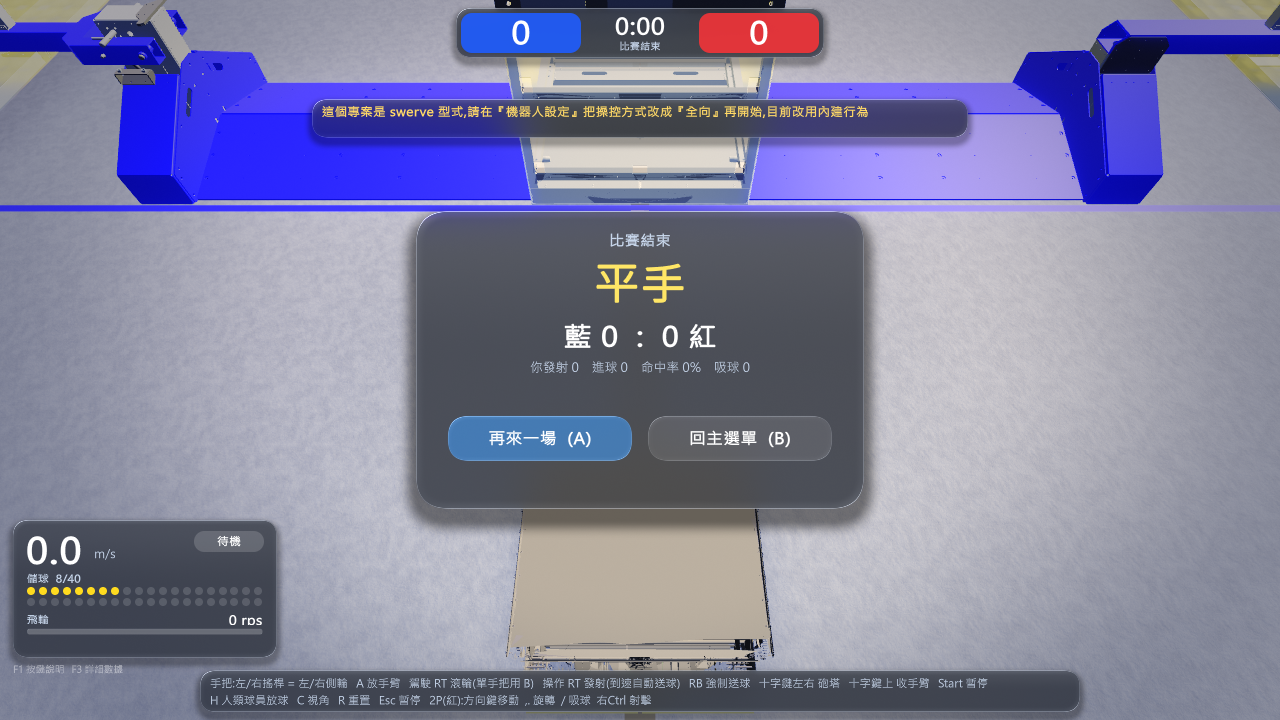
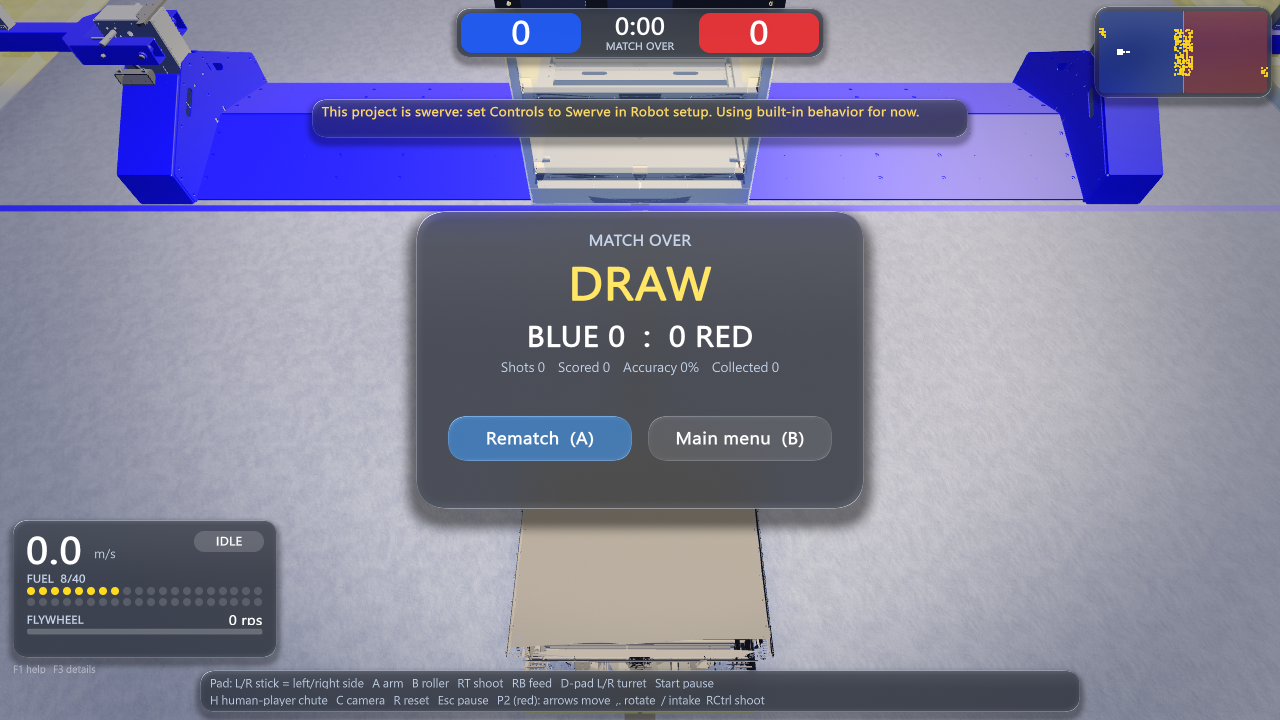
v0.5.38 minimap

diff --git a/Assets/Scripts/Sim/SimHud.cs b/Assets/Scripts/Sim/SimHud.cs
@@ -56,6 +56,7 @@ namespace FrcSim
             fps = Mathf.Lerp(fps, 1f / Mathf.Max(Time.unscaledDeltaTime, 1e-4f), 0.05f);
             if (Input.GetKeyDown(KeyCode.F3)) showDebug = !showDebug;
             if (Input.GetKeyDown(KeyCode.F12)) StartCoroutine(SaveShot());
+            if (Input.GetKeyDown(KeyCode.G) && !MenuSystem.Blocking) Prefs.SetInt("minimap", Prefs.GetInt("minimap", 1) == 1 ? 0 : 1);
             if (Input.GetKeyDown(KeyCode.F5) && !MenuSystem.Blocking) GameSession.Rematch();
             { bool loading = GameSession.Hal != null && !GameSession.Hal.Connected && !GameSession.Hal.Failed; if (loading) { Time.timeScale = 0f; wasLoading = true; } else if (wasLoading) { wasLoading = false; Time.timeScale = 1f; if (GameSession.Hal != null && GameSession.Hal.LoadedSecs > 5f) { PlayerPrefs.SetFloat("robotLoadSecs", GameSession.Hal.LoadedSecs); PlayerPrefs.Save(); } } }
             if (GameSession.AutoDrillTest && GameSession.Drill && Mech != null) Mech.Shooting = Mech.Held > 0;
@@ -141,6 +142,31 @@ namespace FrcSim
             Rounded(r, new Color(1f, 1f, 1f, 0.12f), 5f);
             if (frac > 0.01f) Rounded(new Rect(r.x, r.y, Mathf.Max(8f, r.width * Mathf.Clamp01(frac)), r.height), fill, 5f);
         }
+        // 小地圖(右上角):場地、球、機器人與朝向。G 開關。
+        void DrawMinimap(float W)
+        {
+            if (Prefs.GetInt("minimap", 1) != 1 || GameSession.Drive == null || MenuSystem.Blocking) return;
+            float L = SimConstants.FieldLength, Wf = SimConstants.FieldWidth;
+            float mw = 210f, mh = mw * Wf / L, mx = W - mw - 16f, my = 14f;
+            Panel(new Rect(mx - 6, my - 6, mw + 12, mh + 12), 0.55f);
+            Rounded(new Rect(mx, my, mw / 2f, mh), new Color(0.12f, 0.36f, 1f, 0.28f), 6f);
+            Rounded(new Rect(mx + mw / 2f, my, mw / 2f, mh), new Color(0.95f, 0.2f, 0.22f, 0.28f), 6f);
+            var wt = Texture2D.whiteTexture; GUI.color = new Color(1f, 1f, 1f, 0.35f); GUI.DrawTexture(new Rect(mx + mw / 2f - 0.5f, my, 1f, mh), wt);
+            int n = 0;
+            foreach (var f in FuelManager.All)
+            {
+                if (f == null || !f.gameObject.activeInHierarchy) continue;
+                if ((++n & 1) == 0 && FuelManager.All.Count > 160) continue;   // 球太多時抽樣畫,保持乾淨
+                var fp = f.transform.position; GUI.color = new Color(1f, 0.85f, 0.1f, 0.9f);
+                GUI.DrawTexture(new Rect(mx + fp.x / L * mw - 1f, my + (1f - fp.z / Wf) * mh - 1f, 2.5f, 2.5f), wt);
+            }
+            var rp = GameSession.Drive.Pose2d; float h = GameSession.Drive.HeadingRad;
+            float rx = mx + rp.x / L * mw, ry = my + (1f - rp.y / Wf) * mh;
+            GUI.color = Color.white; GUI.DrawTexture(new Rect(rx - 3.5f, ry - 3.5f, 7f, 7f), wt);
+            for (int k = 1; k <= 4; k++) GUI.DrawTexture(new Rect(rx + Mathf.Cos(h) * k * 3f - 1f, ry - Mathf.Sin(h) * k * 3f - 1f, 2.2f, 2.2f), wt);   // 車頭方向
+            GUI.color = Color.white;
+        }
+
         void OnGUI()
         {
             if (Drive == null) return;
@@ -216,6 +242,7 @@ namespace FrcSim
                 }
             }
             GUI.Label(new Rect(16, H - 74, 300, 20), L("F1 按鍵說明   F3 詳細數據", "F1 help   F3 details"), Style(12, new Color(1f, 1f, 1f, 0.55f)));
+            DrawMinimap(W);
             // ---- 頂部中央:比分 + 計時(運動轉播風格:藍/紅色塊 + 中央大計時)
             {
                 float sw = 460f, sh = 62f, sx = cx - sw / 2f, sy = 10f;
@@ -360,6 +387,8 @@ namespace FrcSim
         }
     }
 }
+
+
 
 
 

diff --git a/Assets/Scripts/UI/Loc.cs b/Assets/Scripts/UI/Loc.cs
@@ -60,8 +60,8 @@ namespace FrcSim
             { "ctl.kb",        new[]{ "鍵盤", "Keyboard" } },
             { "ctl.pad",       new[]{ "Xbox 手把", "Xbox Controller" } },
             { "ctl.kb.body",   new[]{
-                "W A S D    移動\nQ / E    逆時針 / 順時針旋轉\nShift(按住)/ T(切換)    慢速\nI    放下 / 收起 Intake\n空白鍵 / 滑鼠左鍵    發射(按住,自動瞄準 HUB)\nF    場地座標 / 車頭座標\nH    人類球員放球(OUTPOST 球道,24 顆)\nN    跳過自動階段(真實程式模式)\nC    切換視角(追車/俯視/全景/選手/導播)\nM    導播旁白開/關\nF12    截圖存到桌面\nR    重置位置\nEsc    暫停選單",
-                "W A S D    Move\nQ / E    Rotate CCW / CW\nShift (hold) / T (toggle)    Slow\nI    Intake down / up\nSpace / Left Click    Shoot (hold, auto-aim HUB)\nF    Field / Robot centric\nH    Human-player chute (24 FUEL)\nN    Skip AUTO (real-code mode)\nC    Change camera (chase/top/overview/operator/broadcast)\nM    Commentary on/off\nF12    Screenshot to Desktop\nR    Reset pose\nEsc    Pause menu" } },
+                "W A S D    移動\nQ / E    逆時針 / 順時針旋轉\nShift(按住)/ T(切換)    慢速\nI    放下 / 收起 Intake\n空白鍵 / 滑鼠左鍵    發射(按住,自動瞄準 HUB)\nF    場地座標 / 車頭座標\nH    人類球員放球(OUTPOST 球道,24 顆)\nN    跳過自動階段(真實程式模式)\nC    切換視角(追車/俯視/全景/選手/導播)\nM    導播旁白開/關\nF12    截圖存到桌面\nG    小地圖開/關\nR    重置位置\nEsc    暫停選單",
+                "W A S D    Move\nQ / E    Rotate CCW / CW\nShift (hold) / T (toggle)    Slow\nI    Intake down / up\nSpace / Left Click    Shoot (hold, auto-aim HUB)\nF    Field / Robot centric\nH    Human-player chute (24 FUEL)\nN    Skip AUTO (real-code mode)\nC    Change camera (chase/top/overview/operator/broadcast)\nM    Commentary on/off\nF12    Screenshot to Desktop\nG    Minimap on/off\nR    Reset pose\nEsc    Pause menu" } },
             { "ctl.pad.body",  new[]{
                 "【LEO 坦克】駕駛(第一支手把)\n左/右搖桿    左/右側輪\nA(按住)    放下 Intake    B(按住)    滾輪\n操作手(第二支;只接一支時共用)\nRT    發射    RB    送球    X    吐球\n十字鍵左右    砲塔    十字鍵上    收手臂\nStart / Back    暫停(重置在暫停選單)\n【全向模式】左搖桿移動  LB/RB 旋轉  A Intake  B 發射",
                 "[LEO tank] Driver (1st pad)\nL/R stick    left/right side\nA (hold)    Intake down    B (hold)    Roller\nOperator (2nd pad; shared if only one)\nRT    Shoot    RB    Feed    X    Eject\nD-pad L/R    Turret    D-pad Up    Raise arm\nStart / Back    Pause (reset in pause menu)\n[Swerve] L stick move  LB/RB rotate  A Intake  B Shoot" } },
@@ -81,5 +81,6 @@ namespace FrcSim
         }
     }
 }
+
 
 

diff --git a/Assets/Scripts/Sim/UpdateCheck.cs b/Assets/Scripts/Sim/UpdateCheck.cs
@@ -17,7 +17,7 @@ namespace FrcSim
     //   找不到差異包(或失敗)時退回「開啟下載頁」,讓使用者手動下載完整版。
     public class UpdateCheck : MonoBehaviour
     {
-        public const string Current = "0.5.37";
+        public const string Current = "0.5.38";
         const string Repo = "frc9427liu-tech/FRC9427-SimApp";
         const string ReleasesApi = "https://api.github.com/repos/" + Repo + "/releases?per_page=30";
         public const string Page = "https://github.com/" + Repo + "/releases/latest";
@@ -235,6 +235,7 @@ Start-Process -FilePath $Exe -WorkingDirectory $Dst
 ";
     }
 }
+
 
 
 
